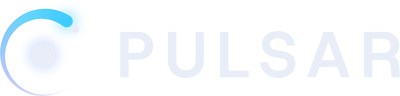
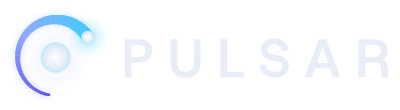
branding: install the designer's in-OS cuts instead of re-deriving them
sync-branding.sh used to render the GDM logo and the Plymouth watermark
by shrinking the horizontal lockup. v2 ships both, drawn at their target
sizes with the small mark. Re-deriving them would throw that work away, so
they are now installed as supplied: pulsar-gdm-logo.png at 320x88 and
watermark.png at 400x110. Both are cropped tighter than v1's 77 and 96px
heights. Nothing pins a height: the gschema key is a path, and the
.plymouth alignment is a fraction. The 2x files stay in assets/brand. The
GDM key takes one file, and two-step has no @2x lookup, so there is no slot
for them.

The hicolor icon is now v2's in-os/pulsar-logo-icon.svg, which is the navy
tile rather than v1's bare mark. The 512-64px PNGs are rendered from it,
and 48px from svg/pulsar-tile-small.svg. The README's size rule puts 48px
in the small range, where the large drawing's tapered tail thins to
nothing and the star field is only noise.

The About-panel lockups are still rendered to Fedora's fixed 279x80,
because nobody drew that cut: the plain lockup for dark and the authored
-light lockup for light, never a recolour. The fontconfig pinning is gone.
v2's wordmark is outlines, so the render no longer reads a font.

The `pulsar manifest` ASCII mark is rendered from the small drawing at 38
raster columns. v2's files have no wide margin to trim, so 56 columns would
now draw 26 rows. 38 gives 19 rows by 37 columns, the height of a readout,
and the manifest tests move from 36 to 37 columns.
[…]

Changed region(s): [[0.0, 0.0625, 0.27, 0.9375], [0.06, 0.9375, 0.12, 1.0]]

diff --git a/scripts/render-wallpapers.py b/scripts/render-wallpapers.py
@@ -44,20 +44,34 @@ void main() { gl_Position = vec4(in_pos, 0.0, 1.0); }
 #
 # The mark is pasted after the render -- it is alpha art with a gaussian glow,
 # and reimplementing that in GLSL to avoid one PIL call would be absurd. Dark
-# cuts carry the full-color mark; light cuts carry the authored color-dark
-# mark (colored arc, near-black cores -- the light-ground family).
+# cuts carry the colour-on-dark mark; light cuts carry the authored -light
+# mark (soft cyan -> violet sweep, deep-violet core -- the light-ground cut,
+# not a recolour).
+#
+# Each PNG is paired with the SVG it was exported from, because the PNG alone
+# does not say where the mark sits in it. The v2 files are cropped to their own
+# art plus 3%, so the dark mark (which carries a glow) and the light one (which
+# does not) have different boxes, and neither is centred on the core. Pasting
+# the boxes at one size would draw the light mark 15% larger than the dark one
+# and put both cores off the optical centre -- the pair would visibly jump when
+# GNOME flips between them. The SVG's viewBox gives the box in the mark's own
+# 256-unit drawing grid, where the core is always at (128, 128), so the paste
+# scales and places by the drawing instead of by the box.
 BRAND = REPO / "assets" / "brand"
 LOOKS = {"silk": 0.0, "leak": 1.0, "satin": 2.0, "holo": 3.0}
+MARKS = {"dark": ("png/pulsar-mark-1024.png", "svg/pulsar-mark.svg"),
+         "light": ("png/pulsar-mark-light-1024.png", "svg/pulsar-mark-light.svg")}
 VARIANTS = [
     (f"pulsar-{name}-{theme}.png",
      dict(u_time=0.0, u_theme=t, u_look=look),
-     BRAND / mark)
+     MARKS[theme])
     for name, look in LOOKS.items()
-    for theme, t, mark in [("dark", 0.0, "pulsar-mark-1024.png"),
-                           ("light", 1.0, "pulsar-mark-color-dark-1024.png")]
+    for theme, t in [("dark", 0.0), ("light", 1.0)]
 ]
 
-LOGO_FRAC = 0.30   # mark height as a fraction of screen height
+GRID = 256.0         # the mark's drawing grid, in SVG user units
+CORE = (128.0, 128.0)  # the core's centre in that grid, in every v2 mark file
+LOGO_FRAC = 0.30   # the 256-unit grid's height as a fraction of screen height
 LOGO_LIFT = 0.02   # optical center: nudge above true center by this much of H
 
 
@@ -90,13 +104,29 @@ def render(width, height, uniforms):
     return img.transpose(Image.FLIP_TOP_BOTTOM)
 
 
+def viewbox(svg):
+    """(x, y, w, h) of an SVG's viewBox -- where its PNG export sits in the grid."""
+    import re
+
+    head = svg.read_text(errors="replace")[:4096]
+    m = re.search(r'viewBox="([^"]+)"', head)
+    if not m:
+        sys.exit(f"render-wallpapers: no viewBox in {svg}")
+    return tuple(float(v) for v in m.group(1).replace(",", " ").split())
+
+
 def composite_logo(img, logo):
     from PIL import Image
 
-    size = round(img.height * LOGO_FRAC)
-    mark = Image.open(logo).convert("RGBA").resize((size, size), Image.LANCZOS)
-    x = (img.width - size) // 2
-    y = (img.height - size) // 2 - round(img.height * LOGO_LIFT)
+    png, svg = (BRAND / f for f in logo)
+    vx, vy, vw, vh = viewbox(svg)
+    unit = img.height * LOGO_FRAC / GRID          # screen px per grid unit
+    w, h = round(vw * unit), round(vh * unit)
+    mark = Image.open(png).convert("RGBA").resize((w, h), Image.LANCZOS)
+    # Put the CORE on the optical centre, not the box: the box is off-core by
+    # a different amount in every file.
+    x = round(img.width / 2 - (CORE[0] - vx) * unit)
+    y = round(img.height / 2 - img.height * LOGO_LIFT - (CORE[1] - vy) * unit)
     img.paste(mark, (x, y), mark)
     return img
 

diff --git a/scripts/render-ascii-logo.py b/scripts/render-ascii-logo.py
@@ -11,7 +11,7 @@ own color as 24-bit foreground -- so the sweep keeps its cyan-to-violet
 gradient. Transparent pixels are plain spaces, so the art sits on whatever
 theme the user's terminal runs.
 
-    render-ascii-logo.py assets/brand/pulsar-mark.svg -o out.ansi [--cols 26]
+    render-ascii-logo.py assets/brand/svg/pulsar-mark-small.svg -o out.ansi [--cols 38]
 """
 import argparse
 import re
